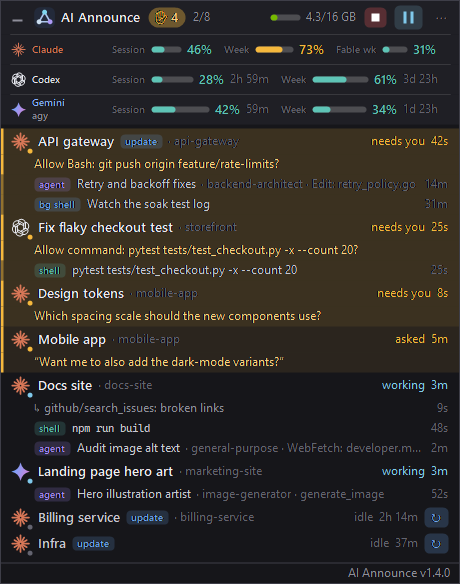
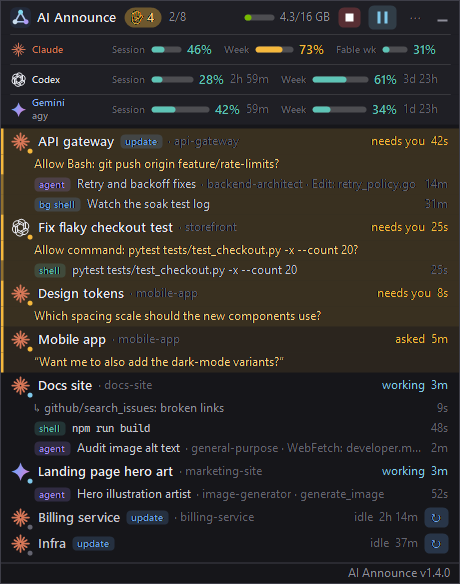
Put the minimize button top right, where a window's is

diff --git a/src/OverlayForm.cs b/src/OverlayForm.cs
@@ -758,13 +758,8 @@ sealed class OverlayForm : Form
         Fill(g, r, LimitHit ? Palette.LimitHeader : Palette.Header);
         int alerts = snapshot.Sessions.Count(IsAlert);
         int busy = snapshot.Sessions.Count(s => s.IsWorking && !IsPaused(s));
-        // minimize: hides the overlay; the tray icon or taskbar button brings it back
-        hideButton = new Rectangle(r.Left + Px(5), r.Top + Px(5), Px(24), r.Height - Px(10));
-        if (hoverHide) FillRound(g, hideButton, Px(5), LimitHit ? Palette.LimitBand : Palette.Hover);
-        Fill(g, new Rectangle(hideButton.Left + Px(7), hideButton.Top + hideButton.Height / 2 + Px(2), hideButton.Width - Px(14), Math.Max(1, Px(2))),
-            hoverHide ? Palette.Text : Palette.Dim);
-        BrandIcons.DrawApp(g, new Rectangle(r.Left + Px(33), r.Top + Px(6), Px(22), Px(22)));
-        int x = r.Left + Px(61);
+        BrandIcons.DrawApp(g, new Rectangle(r.Left + Px(9), r.Top + Px(6), Px(22), Px(22)));
+        int x = r.Left + Px(37);
         int titleWidth = Measure("AI Announce", fonts.Title);
         Draw(g, "AI Announce", fonts.Title, new Rectangle(x, r.Top, titleWidth + 2, r.Height), Palette.Text);
         x += titleWidth + Px(8);
@@ -778,8 +773,14 @@ sealed class OverlayForm : Form
             Draw(g, count, fonts.Name, new Rectangle(x + Px(23), alertPill.Top, alertPill.Width - Px(24), alertPill.Height), Palette.AmberText);
             x = alertPill.Right + Px(8);
         }
-        menuButton = new Rectangle(r.Right - Px(32), r.Top + Px(5), Px(26), r.Height - Px(10));
-        if (hoverMenu) FillRound(g, menuButton, Px(5), Palette.Hover);
+        // minimize, top right where a window's usually is: hides the overlay; the tray icon or
+        // taskbar button brings it back
+        hideButton = new Rectangle(r.Right - Px(30), r.Top + Px(5), Px(24), r.Height - Px(10));
+        if (hoverHide) FillRound(g, hideButton, Px(5), LimitHit ? Palette.LimitBand : Palette.Hover);
+        Fill(g, new Rectangle(hideButton.Left + Px(7), hideButton.Top + hideButton.Height / 2 + Px(2), hideButton.Width - Px(14), Math.Max(1, Px(2))),
+            hoverHide ? Palette.Text : Palette.Dim);
+        menuButton = new Rectangle(hideButton.Left - Px(28), r.Top + Px(5), Px(26), r.Height - Px(10));
+        if (hoverMenu) FillRound(g, menuButton, Px(5), LimitHit ? Palette.LimitBand : Palette.Hover);
         Draw(g, "⋯", fonts.Name, menuButton, Palette.Dim, CenterText);
 
         bool play = PausedCount > 0;

diff --git a/README.md b/README.md
@@ -113,7 +113,7 @@ These are internal formats of all three CLIs, and an update can change them. Che
 
 Launching it again while it runs just brings the overlay back if it was hidden.
 
-- The **–** button at the top left hides the overlay. The tray icon or the taskbar button brings it back.
+- The **–** button at the top right hides the overlay. The tray icon or the taskbar button brings it back.
 - Drag anywhere to move; it snaps to screen edges. Double-click the header to collapse it to one line.
 - Right-click, or the `⋯` button: hide idle sessions, notifications and sounds (separately for **When a session needs you** and **When a session finishes**), opacity, taskbar button, start with Windows, plan usage, pause at usage limit, refresh usage, reset position. Turning a sound on plays it once.
 - Right-click a session: go to terminal, open folder, copy session ID, dismiss its ✋, restart it.
